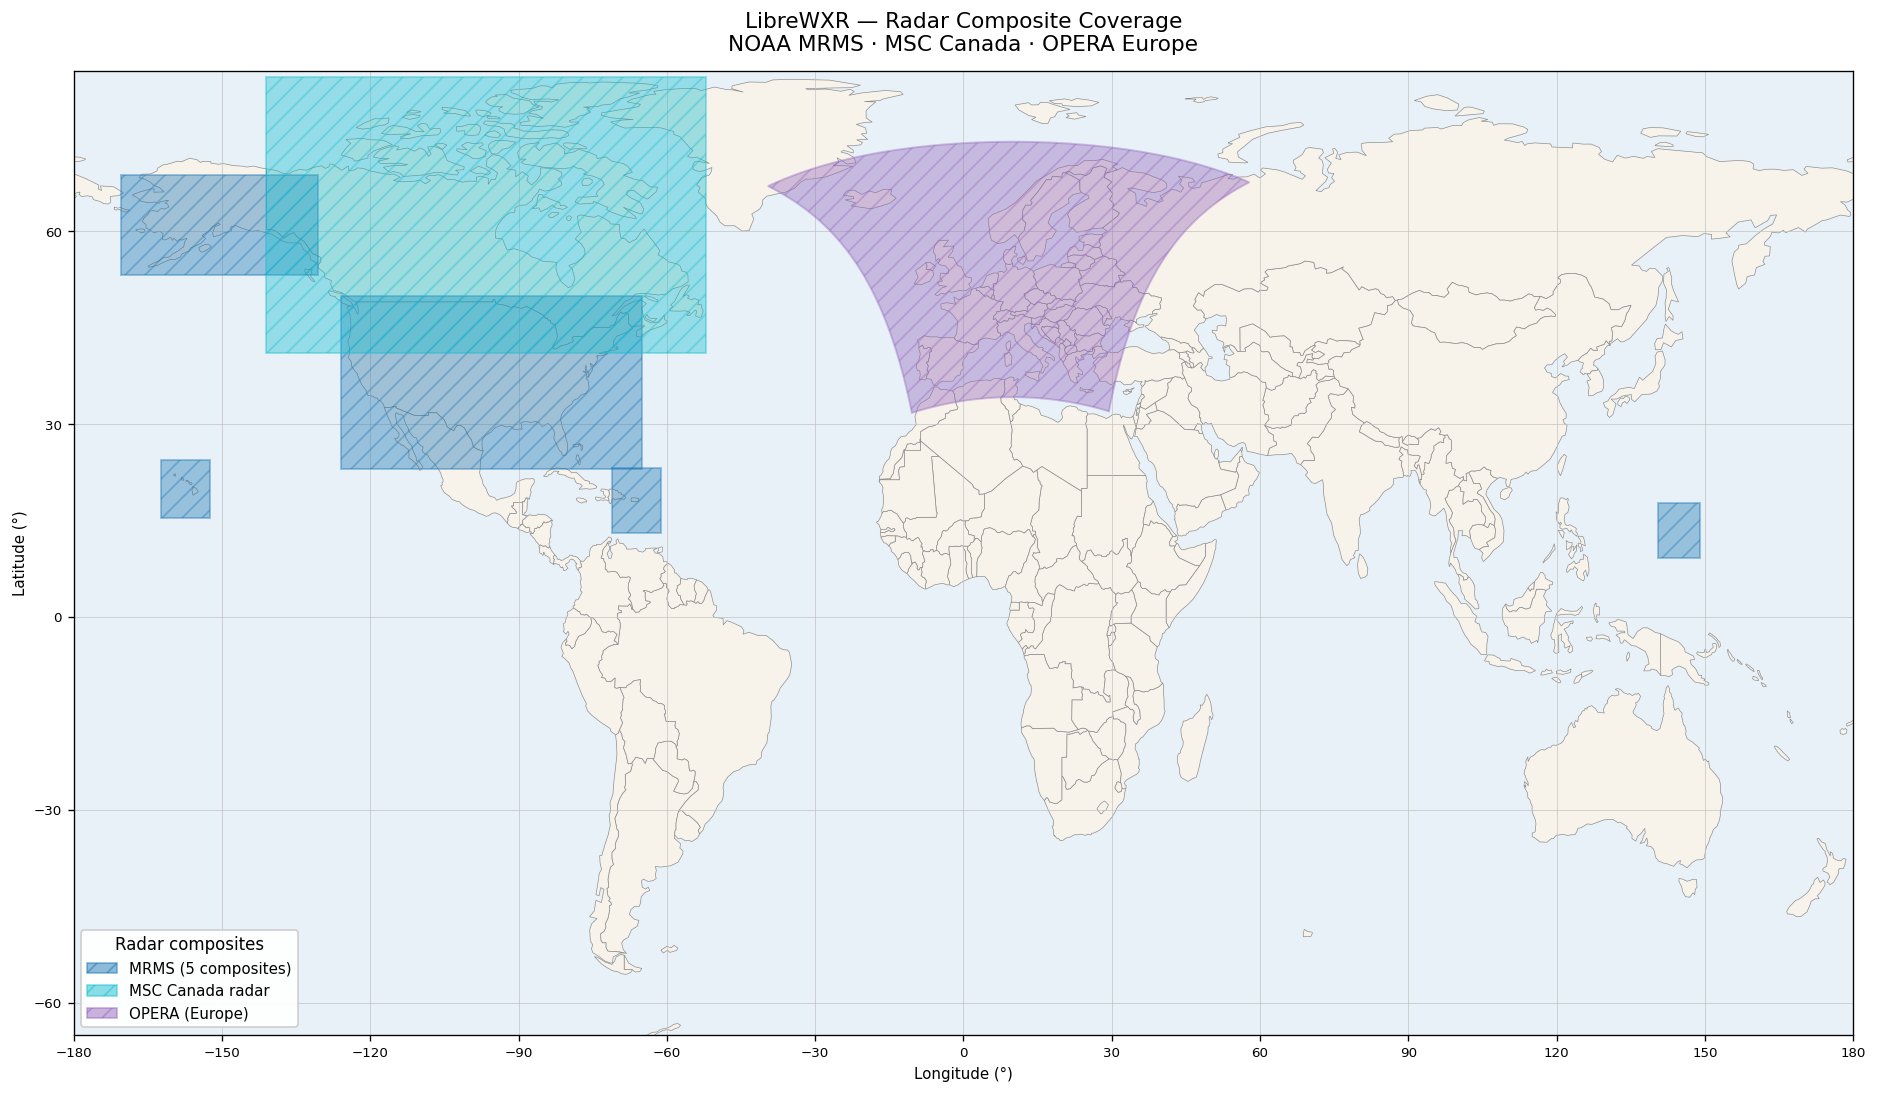
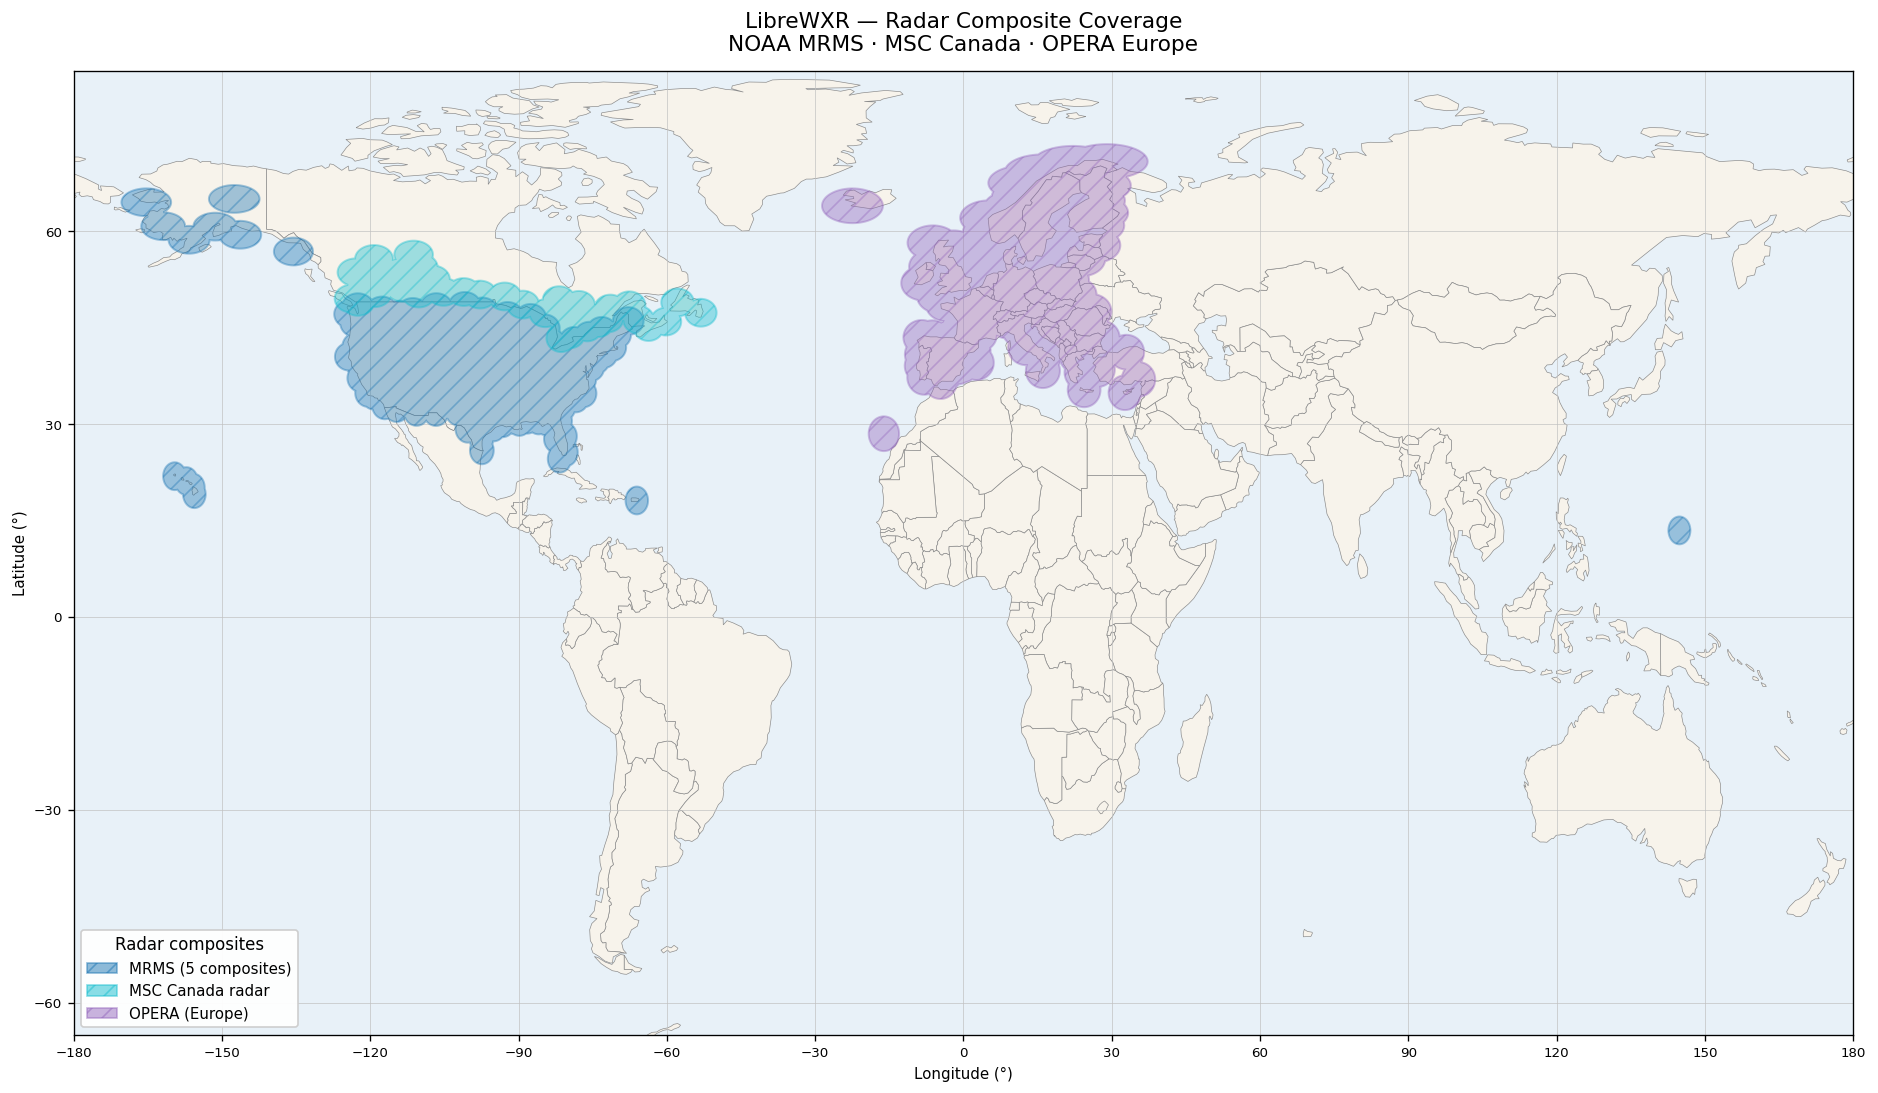
Render radar coverage as union of station circles instead of bbox
The previous radar map drew each composite as its lat/lon bounding
box, which heavily over-stated coverage — the OPERA box implied
radar data over the Sahara, the MSC Canada box implied data across
Nunavut and the high Arctic, and the MRMS-Alaska box implied data
between the seven scattered Alaskan stations.  None of those areas
have radar.

Replace the bounding boxes with the union of effective coverage
circles around every station in each network, using the same lists
and ranges the runtime coverage mask already uses
(librewxr.data.radar_stations.{NEXRAD_*, CANADA_STATIONS,
OPERA_STATIONS}, with 240 km per station as the default and 300 km
for OPERA's C-band fleet).  shapely.ops.unary_union handles the
merge; where station gaps exceed range the union naturally splits
into multiple disjoint polygons (Iceland, Ireland, scattered
Mediterranean stations).

Each map regeneration now reads the station lists directly from
the project source, so adding or removing a station via a normal
edit to radar_stations.py propagates through to the map on the
next script run — no second edit to the generator required.

Updates docs/coverage.md to describe the new visualization: per-
station range, the runtime mask cross-reference, and what the
bumpy outlines actually represent.

Adds shapely to the throwaway venv recipe in the script header
(already a project runtime dep).

Changed region(s): [[0.0618, 0.0622, 0.6794, 0.4977], [0.8647, 0.4355, 0.9265, 0.5288], [0.0618, 0.4044, 0.1235, 0.4977]]

diff --git a/scripts/generate_coverage_map.py b/scripts/generate_coverage_map.py
@@ -30,6 +30,7 @@ Basemap: Natural Earth Vector 1:110m country polygons (CC0).
 from __future__ import annotations
 
 import json
+import sys
 from dataclasses import dataclass
 from math import asin, atan2, cos, degrees, radians, sin
 from pathlib import Path
@@ -39,11 +40,28 @@ import matplotlib.pyplot as plt
 from matplotlib.patches import Patch, PathPatch
 from matplotlib.path import Path as MplPath
 from pyproj import CRS, Transformer
+from shapely.geometry import Polygon as ShapelyPolygon
+from shapely.ops import unary_union
 
 REPO_ROOT = Path(__file__).resolve().parent.parent
 RADAR_OUTPUT = REPO_ROOT / "docs" / "coverage-map-radar.png"
 MODEL_OUTPUT = REPO_ROOT / "docs" / "coverage-map-models.png"
 BASEMAP_PATH = Path("/tmp/ne_countries.geojson")
+
+# Pull radar station lists from the project source so adding a new
+# station updates the map without a second edit.
+sys.path.insert(0, str(REPO_ROOT / "src"))
+from librewxr.data.radar_stations import (  # noqa: E402
+    NEXRAD_CONUS,
+    NEXRAD_ALASKA,
+    NEXRAD_HAWAII,
+    NEXRAD_PUERTO_RICO,
+    NEXRAD_GUAM,
+    CANADA_STATIONS,
+    OPERA_STATIONS,
+    RADAR_RANGE_KM,
+    REGION_RADAR_RANGE,
+)
 
 
 # ── Coverage source definitions ────────────────────────────────────────
@@ -90,6 +108,44 @@ def latlon_box(west: float, east: float, south: float, north: float) -> np.ndarr
     return np.array([
         [west, north], [east, north], [east, south], [west, south], [west, north],
     ])
+
+
+def union_of_radar_circles(
+    stations: list[tuple[float, float]],
+    radius_km: float,
+    samples_per_circle: int = 72,
+) -> list[np.ndarray]:
+    """Build the union of radar coverage circles as one or more polygons.
+
+    Each station gets a circle of ``radius_km`` km approximated by
+    ``samples_per_circle`` points using the local flat-earth scale
+    (1° lat ≈ 111 km, 1° lon ≈ 111·cos(lat) km — same convention the
+    project's ``coverage.py`` mask uses).  All circles are unioned via
+    shapely and returned as a list of (N, 2) lon/lat arrays — one per
+    disjoint piece of coverage (so e.g. Iceland's stations stay
+    separated from continental Europe's where the gap exceeds station
+    range).
+    """
+    circles: list[ShapelyPolygon] = []
+    angles = np.linspace(0, 2 * np.pi, samples_per_circle, endpoint=False)
+    cos_a, sin_a = np.cos(angles), np.sin(angles)
+    for st_lat, st_lon in stations:
+        dlat = (radius_km / 111.0) * cos_a
+        dlon = (radius_km / (111.0 * cos(radians(st_lat)))) * sin_a
+        ring = np.column_stack([st_lon + dlon, st_lat + dlat])
+        # Shapely tolerates open rings (closes them implicitly).
+        circles.append(ShapelyPolygon(ring))
+
+    merged = unary_union(circles)
+    polygons: list[np.ndarray] = []
+    if merged.geom_type == "Polygon":
+        polygons.append(np.asarray(merged.exterior.coords))
+    elif merged.geom_type == "MultiPolygon":
+        for poly in merged.geoms:
+            polygons.append(np.asarray(poly.exterior.coords))
+    else:
+        raise ValueError(f"unexpected merge result: {merged.geom_type}")
+    return polygons
 
 
 # Explicit rotated-pole inverse via Cartesian rotation on the unit
@@ -176,32 +232,45 @@ def rotated_pole_polygon(
 
 
 def build_radar_sources() -> list[Source]:
+    """Build per-station union-of-circles polygons for every radar source.
+
+    Reads the station lists straight from
+    ``librewxr.data.radar_stations`` so adding or removing a station
+    propagates through to the map automatically.  Range is
+    ``RADAR_RANGE_KM`` (240 km) by default, overridden per-region via
+    ``REGION_RADAR_RANGE`` (300 km for OPERA's C-band network) — same
+    numbers the runtime coverage mask uses.
+    """
     radar: list[Source] = []
-    # MRMS — five lat/lon composites all coloured the same since they
-    # share an upstream operator.
+
+    def range_for(region: str) -> float:
+        return REGION_RADAR_RANGE.get(region, RADAR_RANGE_KM)
+
+    # MRMS — five composites sharing one upstream operator (NOAA) and
+    # one legend swatch.  Each composite gets its own union polygon
+    # built from that region's NEXRAD stations.
     mrms_color = "#1f77b4"
-    for label, w, e, s, n in [
-        ("MRMS — CONUS",       -126.0, -65.0, 23.0, 50.0),
-        ("MRMS — Alaska",      -170.5, -130.5, 53.2, 68.7),
-        ("MRMS — Hawaii",      -162.4, -152.4, 15.4, 24.4),
-        ("MRMS — Puerto Rico", -71.1, -61.1, 13.1, 23.1),
-        ("MRMS — Guam",        140.5, 149.0, 9.2, 17.7),
-    ]:
-        radar.append(Source(label, mrms_color, latlon_box(w, e, s, n)))
+    mrms_groups = [
+        ("MRMS — CONUS",       NEXRAD_CONUS,        range_for("USCOMP")),
+        ("MRMS — Alaska",      NEXRAD_ALASKA,       range_for("AKCOMP")),
+        ("MRMS — Hawaii",      NEXRAD_HAWAII,       range_for("HICOMP")),
+        ("MRMS — Puerto Rico", NEXRAD_PUERTO_RICO,  range_for("PRCOMP")),
+        ("MRMS — Guam",        NEXRAD_GUAM,         range_for("GUCOMP")),
+    ]
+    for label, stations, radius_km in mrms_groups:
+        for poly in union_of_radar_circles(stations, radius_km):
+            radar.append(Source(label, mrms_color, poly))
 
-    radar.append(Source(
-        "MSC Canada radar", "#17becf",
-        latlon_box(-141.0, -52.0, 41.0, 84.0),
-    ))
+    # MSC Canada — ECCC's 32 S-band dual-pol stations at 240 km each.
+    for poly in union_of_radar_circles(CANADA_STATIONS, range_for("CACOMP")):
+        radar.append(Source("MSC Canada radar", "#17becf", poly))
 
-    # OPERA — LAEA projection, full grid extent
-    opera_crs = CRS.from_proj4(
-        "+proj=laea +lat_0=55 +lon_0=10 +x_0=1950000 +y_0=-2100000 +ellps=WGS84"
-    )
-    radar.append(Source(
-        "OPERA (Europe)", "#9467bd",
-        project_grid_perimeter(opera_crs, 0, 3_800_000, -4_400_000, 0),
-    ))
+    # OPERA — ~155 European stations at 300 km each (C-band).  The
+    # union naturally splits into a continental piece, Iceland,
+    # Ireland-and-Britain, etc. where station gaps exceed range.
+    for poly in union_of_radar_circles(OPERA_STATIONS, range_for("OPERA")):
+        radar.append(Source("OPERA (Europe)", "#9467bd", poly))
+
     return radar
 
 
@@ -433,9 +502,14 @@ def render(
         seen.add(key)
         label = key
         if dedupe_label_prefix and key == dedupe_label_prefix.rstrip(" —"):
-            # Count how many entries share the prefix
-            cnt = sum(1 for x in sources if x.label.startswith(dedupe_label_prefix))
-            label = f"{key} ({cnt} composites)"
+            # Count distinct labels (not Source rows — each composite may
+            # produce several disjoint polygon pieces from the station
+            # union, which would otherwise inflate the count).
+            distinct = {
+                x.label for x in sources
+                if x.label.startswith(dedupe_label_prefix)
+            }
+            label = f"{key} ({len(distinct)} composites)"
         handles.append(Patch(
             facecolor=s.color, edgecolor=s.color,
             alpha=min(0.95, alpha_fill + 0.10), hatch=hatch,

diff --git a/docs/coverage.md b/docs/coverage.md
@@ -20,18 +20,27 @@ fetcher and renderer respect.
 
 ![Radar coverage map](coverage-map-radar.png)
 
-| Source | Coverage | Cadence | Resolution |
-|---|---|---|---|
-| NOAA MRMS — CONUS | Continental US | 2 min | ~0.005° (~500 m) |
-| NOAA MRMS — Alaska | Alaska | 2 min | ~0.01° |
-| NOAA MRMS — Hawaii | Hawaiian Islands | 2 min | ~0.005° |
-| NOAA MRMS — Puerto Rico | Puerto Rico + USVI | 2 min | ~0.01° |
-| NOAA MRMS — Guam | Guam + CNMI | 2 min | ~0.0085° |
-| ECCC MSC Canada | Canada (national mosaic) | 6 min | ~0.025° |
-| EUMETNET OPERA | Europe (~155 radars, 24 countries) | 5 min | 1 km LAEA |
+Polygons show the **union of effective coverage circles** around every
+radar station in each network — 240 km per NEXRAD/ECCC station,
+300 km per OPERA C-band station, matching the runtime coverage mask
+in [`librewxr.data.coverage`](../src/librewxr/data/coverage.py). The
+bumpy outlines reflect real radar coverage gaps (e.g. far northern
+Canada, eastern Aleutians, the Mediterranean between Greece and Cyprus,
+the Norwegian/Faroe gap above Iceland) rather than a lat/lon bounding
+box that would have implied coverage where none exists.
 
-MRMS and MSC blending fills Canadian gaps where one provider's coverage
-ends; OPERA is a single pan-European composite.
+| Source | Stations | Per-station range | Composite cadence | Composite resolution |
+|---|---|---|---|---|
+| NOAA MRMS — CONUS | NEXRAD WSR-88D (~160) | 240 km | 2 min | ~0.005° (~500 m) |
+| NOAA MRMS — Alaska | NEXRAD WSR-88D (7) | 240 km | 2 min | ~0.01° |
+| NOAA MRMS — Hawaii | NEXRAD WSR-88D (4) | 240 km | 2 min | ~0.005° |
+| NOAA MRMS — Puerto Rico | NEXRAD WSR-88D (1) | 240 km | 2 min | ~0.01° |
+| NOAA MRMS — Guam | NEXRAD WSR-88D (1) | 240 km | 2 min | ~0.0085° |
+| ECCC MSC Canada | S-band dual-pol (32) | 240 km | 6 min | ~0.025° |
+| EUMETNET OPERA | C-band (~155, 24 countries) | 300 km | 5 min | 1 km LAEA |
+
+MRMS and MSC ingest each other's stations along the US/Canada border,
+so the cross-border zone has overlap rather than a hard seam.
 
 ---
 